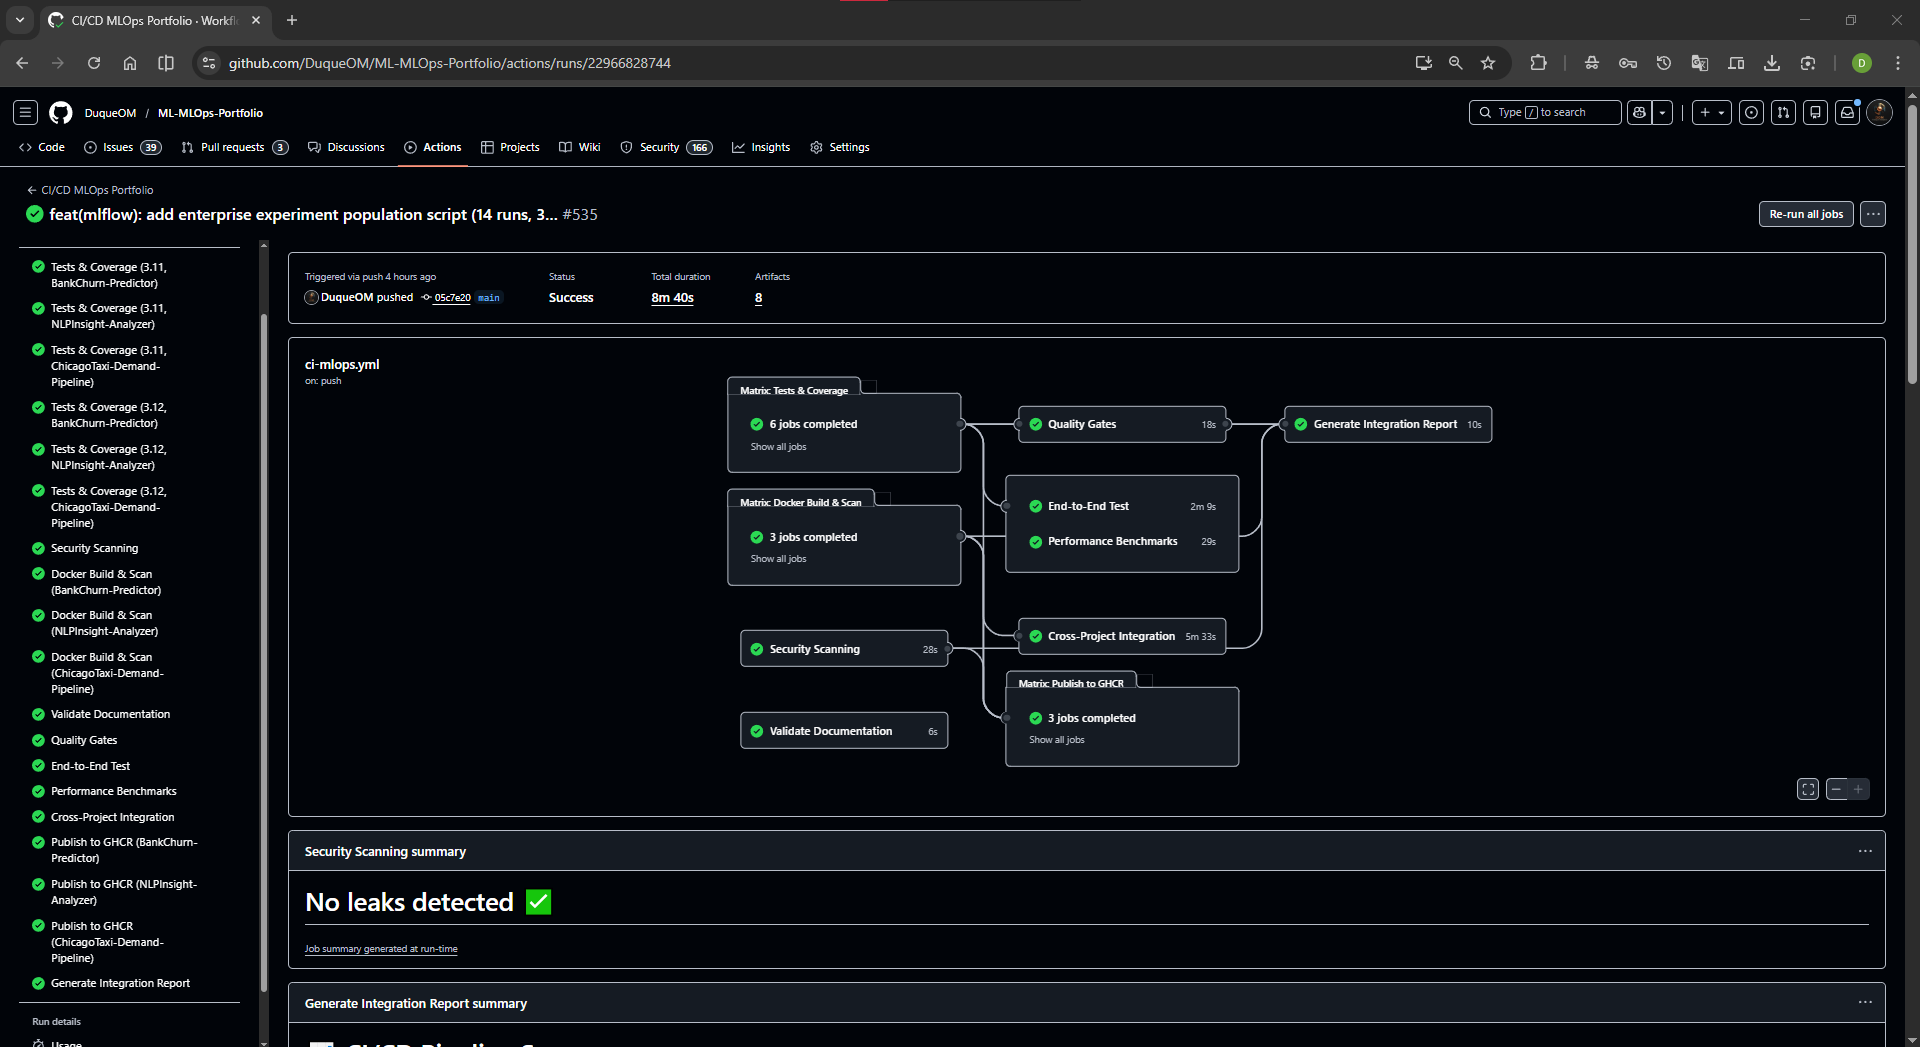
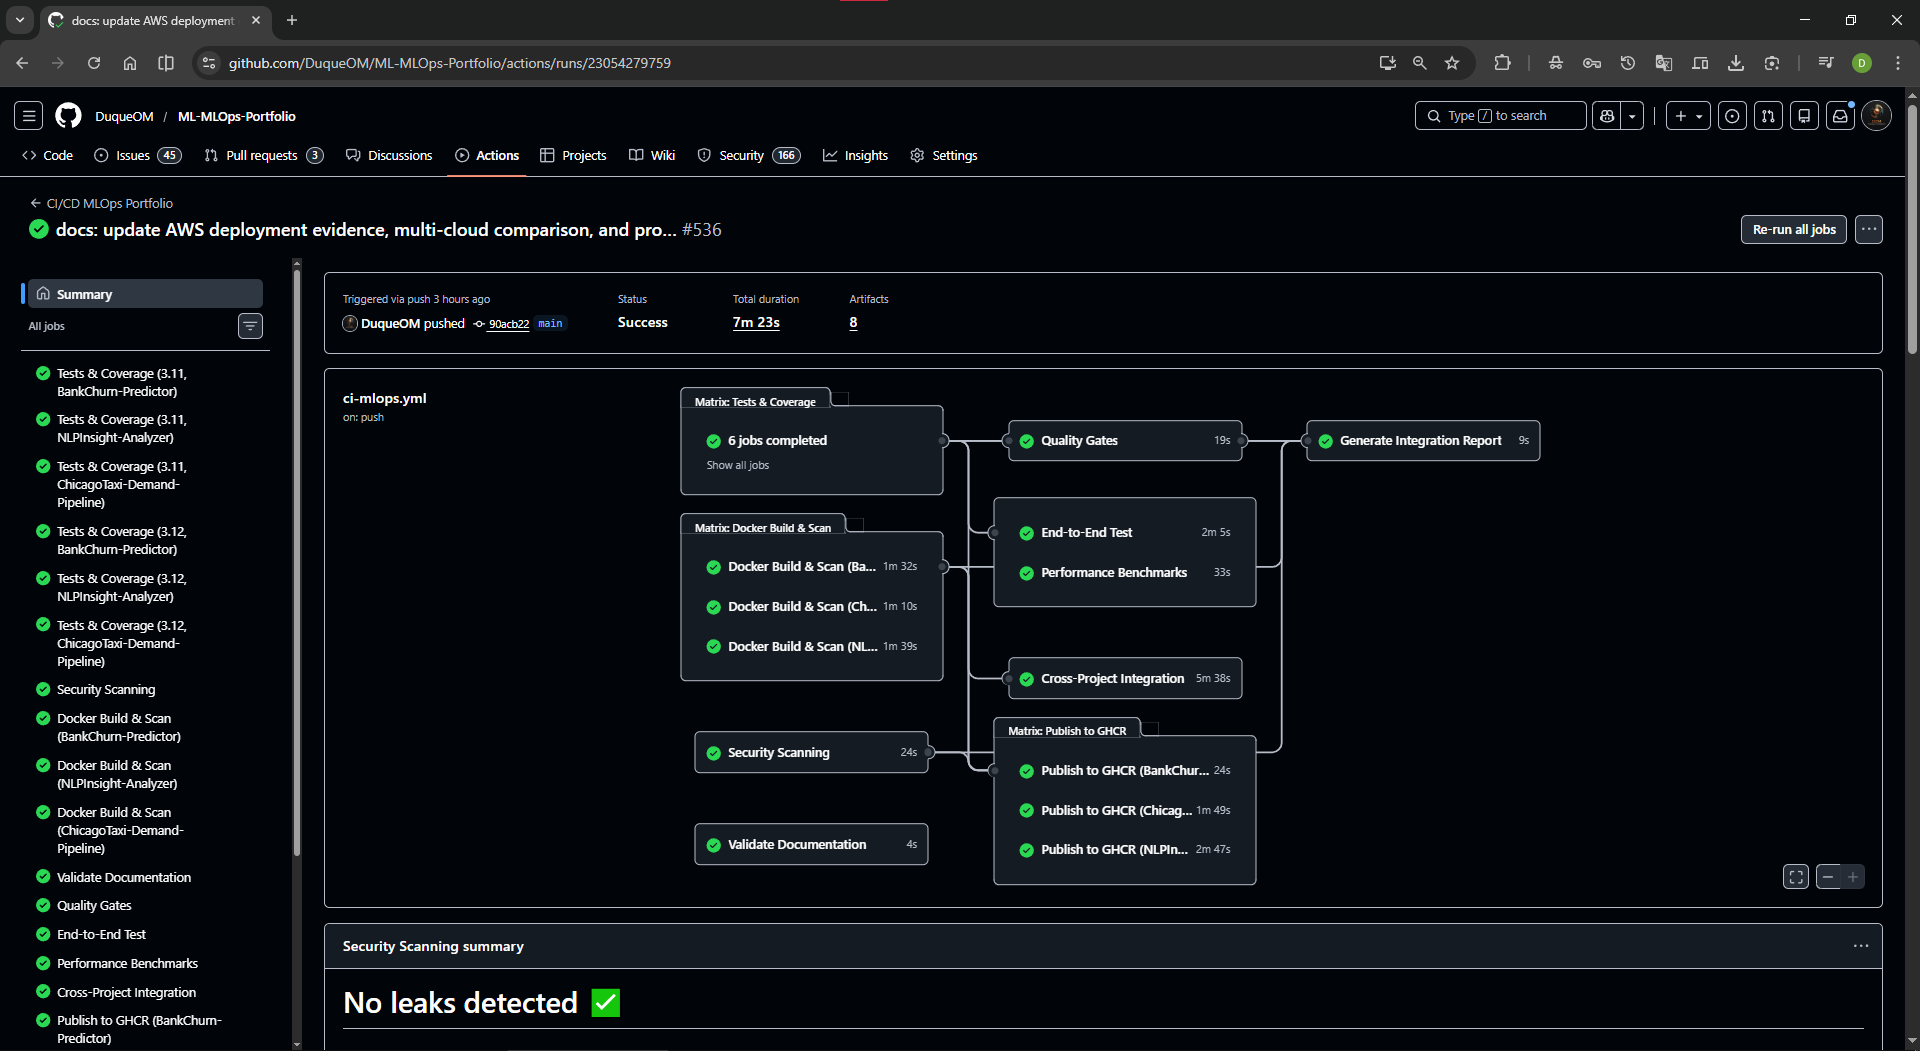
feat(infra): add tfsec:ignore annotations with ADR-012 justifications
- GCP: 4 findings acknowledged (GKE PSP deprecated, metadata, 2× GCS CMK)
- AWS: 14 findings acknowledged (EKS public access, SG egress, VPC flow logs, S3/ECR/RDS CMK, logging)
- Created ADR-012: Security Scanner Staging Policy with tiered remediation (staging vs production)
- Results: GCP 2 high → 0 high, AWS 2 critical + 5 high → 0 critical/high
- Pattern: inline justification + cost analysis + production upgrade path

Evidence updates:
- Added 46-workflow-completado.png (CI/CD pipeline green)
- Added 47-workflow-jobs.png (matrix strategy diagram)
- Added 38c-load-test-results.png (Locust 3002 req, 25 rps, 0.03% error)
- Added 02-terraform-aws-tests.png (AWS tfsec/checkov results)
- Added 03-k8s-overlays-multicloud.png (GCP vs AWS overlays comparison)
- Removed 38d-grafana-after-loadtest.png (duplicate)

Ref: ADR-012, tfsec v1.28.14, checkov 3.2.x

diff --git a/docs/decisions/012-security-scanner-staging-policy.md b/docs/decisions/012-security-scanner-staging-policy.md
@@ -1,0 +1,101 @@
+# ADR-012: Security Scanner Findings — Staging vs Production Policy
+
+**Date**: 2026-03-13
+**Status**: Accepted
+**Context**: tfsec and checkov findings in GCP and AWS Terraform configurations
+
+## Problem
+
+Static security scanners (tfsec, checkov) report findings that are valid security recommendations but not all are appropriate for every environment tier. Blindly fixing everything adds cost and complexity; ignoring everything signals lack of security awareness.
+
+## Decision
+
+Adopt a **tiered remediation policy** based on environment:
+
+### Staging (current deployment)
+- **Acknowledge all findings** with `#tfsec:ignore` inline comments including justification
+- **Use AWS-managed encryption** (SSE-S3, SSE-KMS with AWS-managed keys) instead of customer-managed CMKs
+- **Skip cost-adding features** (VPC Flow Logs, S3 access logging, RDS Performance Insights) that don't improve security posture for non-sensitive demo data
+- **Restrict but allow** public API access (EKS endpoint restricted to allowed CIDRs, not 0.0.0.0/0)
+
+### Production (documented upgrade path)
+- Require customer-managed KMS keys (CMK) for PII/PHI data
+- Enable VPC Flow Logs, S3 access logging, CloudWatch CMK encryption
+- Enable RDS Performance Insights with CMK
+- Restrict EKS public access to VPN/bastion CIDRs only or disable entirely (private-only + VPN)
+- Enforce via CI pipeline: `tfsec --minimum-severity HIGH --exclude-ignored`
+
+## Findings Inventory
+
+### GCP (4 findings, all acknowledged)
+
+| ID | Severity | Resource | Justification |
+|----|----------|----------|---------------|
+| AVD-GCP-0047 | HIGH | GKE Cluster | PodSecurityPolicy deprecated K8s 1.21+; using Pod Security Standards (PSS) via namespace labels |
+| AVD-GCP-0048 | HIGH | GKE Node Config | Legacy metadata blocked by GKE Metadata Server (workload_metadata_config) |
+| AVD-GCP-0066 | LOW | GCS ml_models | Google-managed encryption; CMEK adds $0.06/10K ops |
+| AVD-GCP-0066 | LOW | GCS mlflow_artifacts | Same as above |
+
+### AWS (15 findings, all acknowledged)
+
+| ID | Severity | Resource | Justification |
+|----|----------|----------|---------------|
+| AVD-AWS-0040 | CRITICAL | EKS Module | Public access restricted to allowed_cidr_blocks; private access enabled |
+| AVD-AWS-0104 | CRITICAL | EKS Node SG | Egress required for ECR pulls, S3 downloads, CloudWatch; NAT Gateway only |
+| AVD-AWS-0132 | HIGH | S3 Buckets (×5) | Uses aws:kms (AWS-managed); CMK adds $1/key/month |
+| AVD-AWS-0178 | MEDIUM | VPC | Flow Logs add ~$0.50/GB; staging uses EKS audit logs |
+| AVD-AWS-0089 | MEDIUM | S3 Artifacts (×2) | Access logging adds storage cost for demo data |
+| AVD-AWS-0033 | LOW | ECR Repos (×3) | AES256 sufficient for container images; KMS for compliance |
+| AVD-AWS-0133 | LOW | RDS MLflow | Performance Insights not needed for minimal staging DB load |
+| AVD-AWS-0017 | LOW | CloudWatch Logs | AWS-managed encryption; CMK for audit-required environments |
+
+### Checkov Summary
+
+| Cloud | Passed | Total | Rate | Notes |
+|-------|--------|-------|------|-------|
+| GCP | 51 | 71 | 72% | Remaining findings overlap with tfsec (CMK, metadata) |
+| AWS | 84 | 116 | 72% | Remaining findings overlap with tfsec (CMK, logging, flow logs) |
+
+## Alternatives Considered
+
+1. **Fix everything** — Adds ~$15-25/month in KMS keys, logging storage, and flow logs. Over-engineering for a staging demo with no real user data.
+2. **Ignore silently** — Scanners pass but no evidence of security awareness. Poor signal to reviewers.
+3. **Suppress globally** — Using `.tfsec.yml` exclude-all hides findings. Loses per-resource traceability.
+
+## Consequences
+
+- Every finding has an inline justification visible in code review
+- CI pipeline reports findings as advisory (non-blocking) with context
+- Production promotion requires removing `#tfsec:ignore` and implementing full controls
+- Reviewers see security awareness + cost-conscious engineering judgment
+
+## Production Checklist (when promoting to production)
+
+```hcl
+# 1. Create KMS keys for each service
+resource "aws_kms_key" "ml_data" {
+  description             = "CMK for ML data encryption"
+  deletion_window_in_days = 30
+  enable_key_rotation     = true
+}
+
+# 2. Reference in S3/ECR/CloudWatch/RDS
+sse_algorithm     = "aws:kms"
+kms_master_key_id = aws_kms_key.ml_data.arn
+
+# 3. Enable VPC Flow Logs
+enable_flow_log                      = true
+flow_log_destination_type            = "cloud-watch-logs"
+flow_log_cloudwatch_log_group_kms_id = aws_kms_key.vpc_logs.arn
+
+# 4. Enable S3 access logging (separate logging bucket)
+# 5. Enable RDS Performance Insights with CMK
+# 6. Restrict EKS to private-only + VPN bastion
+# 7. Run: tfsec --minimum-severity HIGH --exclude-ignored (blocking)
+```
+
+## References
+
+- [tfsec ignore syntax](https://aquasecurity.github.io/tfsec/latest/guides/configuration/ignores/)
+- [AWS Well-Architected: Security Pillar](https://docs.aws.amazon.com/wellarchitected/latest/security-pillar/)
+- [GCP Security Best Practices](https://cloud.google.com/security/best-practices)
